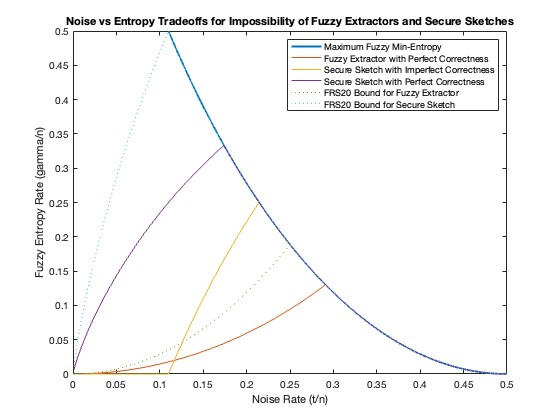
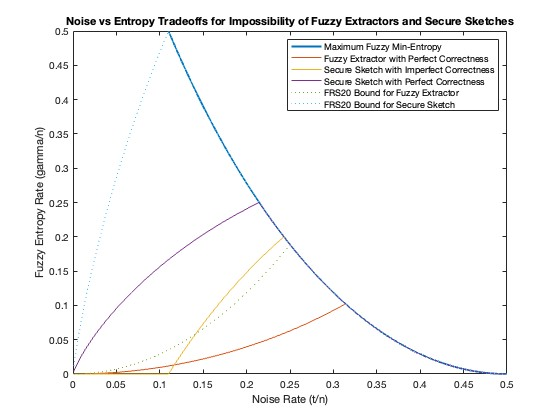
fully corrected?

diff --git a/proof.tex b/proof.tex
@@ -46,9 +46,12 @@ We separately consider $\epsilon_1, \epsilon_2$ and $\epsilon_3$. We refer to th
 
 
 
-\paragraph{Free Points}
-For $\epsilon_2$ to be negligible it suffices that $\nu/2^\kappa$ is negligible.  In the case when $\kappa = \omega(\log{n})$, setting $\nu = \poly(n)$ suffices.
-\paragraph{Distributional Closeness}
+\subsubsection{Free Points}
+For $\epsilon_2$ to be negligible it suffices that $\nu/2^\kappa$ is negligible.  Note that for the fuzzy extractor to have meaningful security requires $\kappa = \omega(\log{n})$.  We set $\nu = 2^{c_{\kappa}\kappa}$ for some constant $0 < c_{\kappa}<1$ which yields 
+\[
+\frac{\nu+1}{2^\kappa} = 2^{(c_{\kappa}-1)\kappa}+ 2^{-\kappa} = \ngl(n).
+\]
+\subsubsection{Distributional Closeness}
  Lemma~\ref{lem:close family} yields a negligible statistical distance as long as 
 \begin{align*}
 2^{\gamma - \beta} &\le \frac{1}{2e},\\
@@ -62,9 +65,9 @@ By Lemma~\ref{lem:max fuzz ent} for any $W$ in $\zo^n$ it is true that $\Hfuzz(W
 \[
 \gamma \le \beta - \log{2e}
 \le n(1-h_2(t/n)) - \log{2e}\] imposes an additive $\log{2e}$ impact on the maximal fuzzy min-entropy that can be supported. 
-For some arbitrary constant $0<c_1 < 1$ We set $k = \gamma + c_1n$. 
+For some constant $0<c_{k,1} < 1$, we set $k = \gamma + c_{k,1}n$. 
 
-\paragraph{Average Points} 
+\subsubsection{Average Points} 
 We now turn to our analysis of $\epsilon_1$.  Recall that $(n/k)^k \le {n\choose k} < ((ne)/k)^k$.  Recalling parameters: 
 \begin{align*}
 \mu&\le nh_2(1/2-t/n),\\
@@ -72,37 +75,48 @@ We now turn to our analysis of $\epsilon_1$.  Recall that $(n/k)^k \le {n\choose
 \end{align*}
 This implies that 
 \begin{align*}
--\log{\epsilon_1}&= \kappa+\frac{\alpha +\log{\nu}-\ell-k}{2^k} - \mu -k\\
-&\ge  \kappa+\frac{\alpha +\log{\nu}-\ell-k}{2^k} - nh_2(1/2-t/n) - k,\\
-&\ge  \kappa+\frac{(n-k)2^k +\log{\nu}-\ell-k}{2^k} - nh_2(1/2-t/n) - k,\\
-&\ge  \kappa+\frac{(n-k)2^k-k2^{k} +\log{\nu}-\ell-k}{2^k} - nh_2(1/2-t/n)\\
-&>  \kappa+\frac{(n-2k)2^k-\ell-k}{2^k} - nh_2(1/2-t/n) .
+-\log{\epsilon_1}&= \kappa+\frac{\alpha-\ell}{2^k} - \mu -2k+\log{\nu}\\
+&\ge  \kappa+\frac{\alpha -\ell}{2^k} - nh_2(1/2-t/n) - 2k+\log{\nu},\\
+&\ge  \kappa+\frac{(n-k)2^k-\ell}{2^k} - nh_2(1/2-t/n) - 2k+c_{\kappa}\kappa,\\
+&\ge  (1+c_{\kappa})\kappa+\frac{(n-k)2^k-2k2^{k}-\ell}{2^k} - nh_2(1/2-t/n)\\
+&>  (1+c_{\kappa})\kappa+\frac{(n-3k)2^k-\ell}{2^k} - nh_2(1/2-t/n) .
 \end{align*}
 
-Since we know that $\kappa =\omega(\log n)$. Recall that $k = \gamma+c_1n$, let $c_2$ be some constant such that $c_2<c_1$ Then as long as
+Below we consider two different parameter settings when one is trying to derive a nontrivial key $\kappa = \omega(\log n)$ and when one is deriving a maximal length key where $\kappa = \Theta(n)$.
+\paragraph{Setting of $\kappa =\omega(\log n)$} 
+Recall that $k = \gamma+c_{k,1}n$. let $c_{k,2}$ be some constant such that $c_{k,2}<c_{k,1}$. Then as long as
 \[
-\ell\le 2(c_1-c_2) n2^k -k= 2(c_1-c_2)n2^{\gamma+c_1n}-(\gamma+c_1n)
-%n\ge \frac{\ell+k}{2^k(c_1-c_2)}.
+\ell\le 3(c_{k,1}-c_{k,2}) n2^k= 3(c_{k,1}-c_{k,2})n2^{\gamma+c_{k,1}n}
+%n\ge \frac{\ell+k}{2^k(c_{k,1}-c_{k,2})}.
+\]
+and 
+\[
+\gamma \le \frac{n(1-3c_{k,2} - h_2(1/2-t/n))}{3}.
 \]
  then it holds that 
 \begin{align*}
-0 &\le \frac{(n-2k)2^k-\ell-k}{2^k} - nh_2(1/2-t/n) \\
-&\le \frac{(n-2(\gamma+c_1n))2^k- 2(c_1-c_2)n2^k }{2^k} - nh_2(1/2-t/n) \\
- &\le n(1-2c_2) - 2\gamma - nh_2(1/2-t/n) \\
-\gamma &\le \frac{n(1-2c_2 - h_2(1/2-t/n))}{2}.\\
+\frac{(n-3k)2^k-\ell}{2^k} - nh_2(1/2-t/n) 
+\ge n(1-3c_{k,2}) - 3\gamma - nh_2(1/2-t/n) \ge 0
 \end{align*}
 which suffices to ensure that 
 \[
-\epsilon_1 \le   2^{-\left(\kappa+\frac{(n-2k)2^k-\ell-k}{2^k} - nh_2(1/2-t/n) \right)} \le  2^{-\kappa} = \ngl(n).
+\epsilon_1 \le   2^{-\left((1+c_{\kappa})\kappa+\frac{(n-3k)2^k-\ell}{2^k} - nh_2(1/2-t/n) \right)} \le  2^{-(1+c_{\kappa})\kappa} = \ngl(n).
 \]
 \noindent
 Adding the constraint from \textbf{Distributional Closeness}
 this means that 
 \[
-\frac{\gamma}{n} \le \min\left\{(1-h_2(t/n)) - \frac{\log{2e}}{n}, \frac{(1-2c_2 - h_2(1/2-t/n))}{2}\right\}.
+\frac{\gamma}{n} \le \min\left\{(1-h_2(t/n)) - \frac{\log{2e}}{n}, \frac{(1-3c_{k,2} - h_2(1/2-t/n))}{3}\right\}.
 \]
-as long as $\ell\le 2(c_1-c_2)n2^{\gamma+c_1n}-(\gamma+c_1n).$
+as long as $\ell\le 3(c_{k,1}-c_{k,2})n2^{\gamma+c_{k,1}n}.$
 
+\paragraph{Setting of $\kappa = \Theta(n)$}
+In this setting let $c_{\kappa^*} n = \kappa+\log{\nu}$.  Setting 
+\begin{align*}
+\ell&\le  3(c_{k,1}-c_{k,2})n2^{\gamma+c_{k,1}n}\\
+\gamma&\le \frac{n}{3}\left(1+c_{\kappa^*} -3c_{k,2}-h_2(1/2-t/n)\right) - \omega(\log{n})
+\end{align*}
+yields that \[ (1+c_{\kappa})\kappa+\frac{(n-3k)2^k-\ell}{2^k} - nh_2(1/2-t/n) = \omega(\log n)\] 
 \subsection{Proof}
 \noindent
 We present Lemmas~\ref{lem:entr of members} and \ref{lem:convert distinguisher} first and then return to the proof of Theorem~\ref{thm:main theorem}.
@@ -315,13 +329,13 @@ We assume that $\epsilon\le 1/4$ and $\delta<1/4$.  As before for
 k &\ge \gamma + \log{n+ \omega(\log{n})}.
 \end{align*}
 These two conditions imply that $\epsilon'\le 1/2$ and $-\log{1-\epsilon'}\le 1$.
-We assume that $\nu = \poly(n)$ and define a constant $0 < c_3< 1$ such that  $\log{\nu+1} \le c_3\log{n}$.
+We assume that $\nu = 1$.
 As in Section~\ref{ssec:analysis params} the additional constraint that 
 \[
 \gamma \le \beta - \log{2e}
 \le n(1-h_2(t/n)) - \log{2e}\] imposes an additive $\log{2e}$ impact on the maximal fuzzy min-entropy that can be supported. 
 For some arbitrary constant $0<c_1 < 1$ We set $k = \gamma + c_1n$. 
-Define \[\chi: =-\frac{\alpha+\log{\nu}-|\advise|-k}{2^k}+1+\mu+k\]
+Define \[\chi: =-\frac{\alpha-|\advise|}{2^k}+1+\mu+2k-\log{\nu}=-\frac{\alpha-|\advise|}{2^k}+1+\mu+2k\]
 We now turn to our analysis of $\chi$.  Recall that $(n/k)^k \le {n\choose k} < ((ne)/k)^k$.  Recalling parameters: 
 \begin{align*}
 \mu&\le \frac{(n(1-h_2(t/n)) +h_2(2\delta))}{(2\delta)},\\
@@ -329,34 +343,44 @@ We now turn to our analysis of $\chi$.  Recall that $(n/k)^k \le {n\choose k} < 
 \end{align*}
 This implies that 
 \begin{align*}
-\chi&= -\frac{\alpha +\log{\nu}-\ell-k}{2^k} + \mu +k+1\\
-&\le  -\frac{\alpha +\log{\nu}-\ell-k}{2^k} +\frac{n(1-h_2(t/n)) +h_2(2\delta)}{1-2\delta}  + k+1,\\
-&\le - \frac{(n-k)2^k +\log{\nu}-\ell-k}{2^k} +\frac{n(1-h_2(t/n)) +h_2(2\delta)}{1-2\delta} + k+1,\\
-&\le  -\frac{(n-k)2^k-k2^{k} +\log{\nu}-\ell-k}{2^k} + \frac{n(1-h_2(t/n)) +h_2(2\delta)}{1-2\delta}+1\\
-&< - \frac{(n-2k)2^k-\ell-k}{2^k} + \frac{n(1-h_2(t/n)) +h_2(2\delta)}{1-2\delta} +1.
+\chi&= -\frac{\alpha-\ell-k}{2^k} + \mu +2k+1\\
+&\le  -\frac{\alpha +\log{\nu}-\ell-k}{2^k} +\frac{n(1-h_2(t/n)) +h_2(2\delta)}{1-2\delta}  + 2k+1,\\
+&\le - \frac{(n-k)2^k +\log{\nu}-\ell-k}{2^k} +\frac{n(1-h_2(t/n)) +h_2(2\delta)}{1-2\delta} + 2k+1,\\
+&\le  -\frac{(n-3k)2^k-\ell-k}{2^k} + \frac{n(1-h_2(t/n)) +h_2(2\delta)}{1-2\delta}+1.
 \end{align*}
-Let $0<c_2<c_1$ be an arbitrary constant. 
-As long as $\ell\le 2(c_1-c_2) n2^k -k= 2(c_1-c_2)n2^{\gamma+c_1n}-(\gamma+c_1n)$ and $\delta < 1/4$ then 
+Let $0<c_2<c_1$ be an arbitrary constant. We consider two settings for $\delta$ one when $\delta<1/4$ and another when $\delta=0$.
+
+\paragraph{Constant error, $\delta<1/4$} 
+As long as 
 \begin{align*}
-0 &\ge -\frac{(n-2k)2^k-\ell-k}{2^k} + 2n(1-h_2(t/n)) +2\\
- &\ge -(n-2c_2n - 2\gamma) + 2n(1-h_2(t/n)) +2\\
-&\ge -n+2c_2n+2\gamma + 2n(1-h_2(t/n))+2\\
-\gamma &\le \frac{n(-1-2c_2 + 2h_2(t/n))}{2}-1.\\
+\ell&\le 3(c_1-c_2) n2^k = 3(c_1-c_2)n2^{\gamma+c_1n},\\
+\delta &< 1/4,\\
+\gamma &\le \frac{n(2h_2(t/n)-1-3c_2 )-2}{3}.
+\end{align*} then 
+\begin{align*}
+-&\frac{(n-3k)2^k-\ell-k}{2^k} + \frac{n(1-h_2(t/n)) +h_2(2\delta)}{1-2\delta}+1\\
+&\le -\frac{(n-3k)2^k-\ell-k}{2^k} + \frac{n(1-h_2(t/n)) +h_2(2\delta)}{1-2\delta}+1 \\
+&\le -\frac{(n-3k)2^k-\ell-k}{2^k} + 2n(1-h_2(t/n)) +2\\
+ &\le -(n-3c_2n - 3\gamma) + 2n(1-h_2(t/n)) +2\\
+&\le -n+3c_2n+3\gamma + 2n(1-h_2(t/n))+2 \\\
+&\le n+3c_2n+3\gamma -2nh_2(t/n))+2 \le 0\\
 \end{align*}
 Adding the constraint from \textbf{Distributional Closeness}
 this means that 
 \[
-\frac{\gamma}{n} = \Theta\left(\min\left\{(1-h_2(t/n)) - \frac{\log{2e}}{n}, \frac{(1-2c_2 - 2h_2(1-t/n))}{2}\right\}\right).
+\frac{\gamma}{n} \le \min\left\{(1-h_2(t/n)) - \frac{\log{2e}}{n}, \frac{2}{3}h_2(t/n)-\frac{1}{3}-c_2-\frac{2}{3}n\right\}.
 \]
-suffices to ensure $\tilde{m} = \Theta(\log n)$ if $\ell\le 2(c_1-c_2)n2^{\gamma+c_1n}-(\gamma+c_1n)$ .
+suffices to ensure $\tilde{m} \le 4$ if $\ell\le 3(c_1-c_2)n2^{\gamma+c_1n}$ .
+
+\paragraph{No error, $\delta=0$}
 When $\delta = 0$ one has
 \[
-\gamma \le \frac{n(2c_2 + h_2(t/n))}{2}-1.\]
+\gamma \le \frac{n( h_2(t/n)-3c_2)-1}{3}.\]
 yielding
 \[
-\frac{\gamma}{n} \le \Theta\left(\left\{(1-h_2(t/n)) - \frac{\log{2e}}{n}, \frac{(2c_2 + h_2(1-t/n))}{2}\right\}\right).
+\frac{\gamma}{n} \le \min\left\{(1-h_2(t/n)) - \frac{\log{2e}}{n}, \frac{1}{3}h_2(t/n)-c_2-\frac{1}{3n}\right\}.
 \]
-if $\ell\le 2(c_1-c_2)n2^{\gamma+c_1n}-(\gamma+c_1n)$.
+if $\ell\le 3(c_1-c_2)n2^{\gamma+c_1n}$.
 
 \subsection{Proof}
 \begin{proof}[Proof of Theorem~\ref{thm:main theorem ss}]

diff --git a/intro.tex b/intro.tex
@@ -45,12 +45,12 @@ There isn't an obvious sufficient condition to use instead of fuzzy min-entropy.
 
 \paragraph{Fuzzy extractors are computational objects} The other natural explanation of the result is that non-interactive information-reconciliation should be considered a computational object. This is our preferred interpretation since one can build universal (and efficient) fuzzy extractors if computational security suffices.  We note that the only known constructions assume either general obfuscation~\cite{BarakBCKPS13,BitanskyCKP14,bitansky2017virtual} or specific number-theoretic assumptions that are not well studied~\cite{galbraith2019obfuscated}. Thus, an important piece of research is to understand the required assumptions to build efficient, universal fuzzy extractors with computational security. 
 
-\begin{figure*}[t]
+\begin{figure}[t]
 \centering
-\includegraphics[width=.8\textwidth]{EntropyvsError.jpg}
+\includegraphics[width=.9\textwidth]{EntropyvsError.jpg}
 \caption{The region of error rate $t/n$ ($x$-axis) and fuzzy entropy rate $\gamma/n$ (y-axis) pairs for which the two negative results apply.  The six curves are maximum fuzzy min-entropy $\gamma/n = (1-h_2(t/n))$, Theorem~\ref{thm:main theorem}, Theorem~\ref{thm:main theorem ss} with $\delta=.25$,  Theorem~\ref{thm:main theorem ss} with $\delta =0$, \cite[Theorem 5.1]{fuller2020fuzzy} and \cite[Theorem 7.2]{fuller2020fuzzy}.}
 \label{fig:param regime}
-\end{figure*}
+\end{figure}
 
 \subsection{Proof Techniques}
 Our results are information-theoretic in nature. Recall that we consider a family of distributions $\mathcal{W}$ and use $W_Z$ to denote sampling a random distribution from $\mathcal{W}$ with $Z$ describing the distribution.  Lastly, we use $w\leftarrow W_Z$ to denote sampling a point from the distribution.  We show the impossibility of two types of fuzzy extractors:
